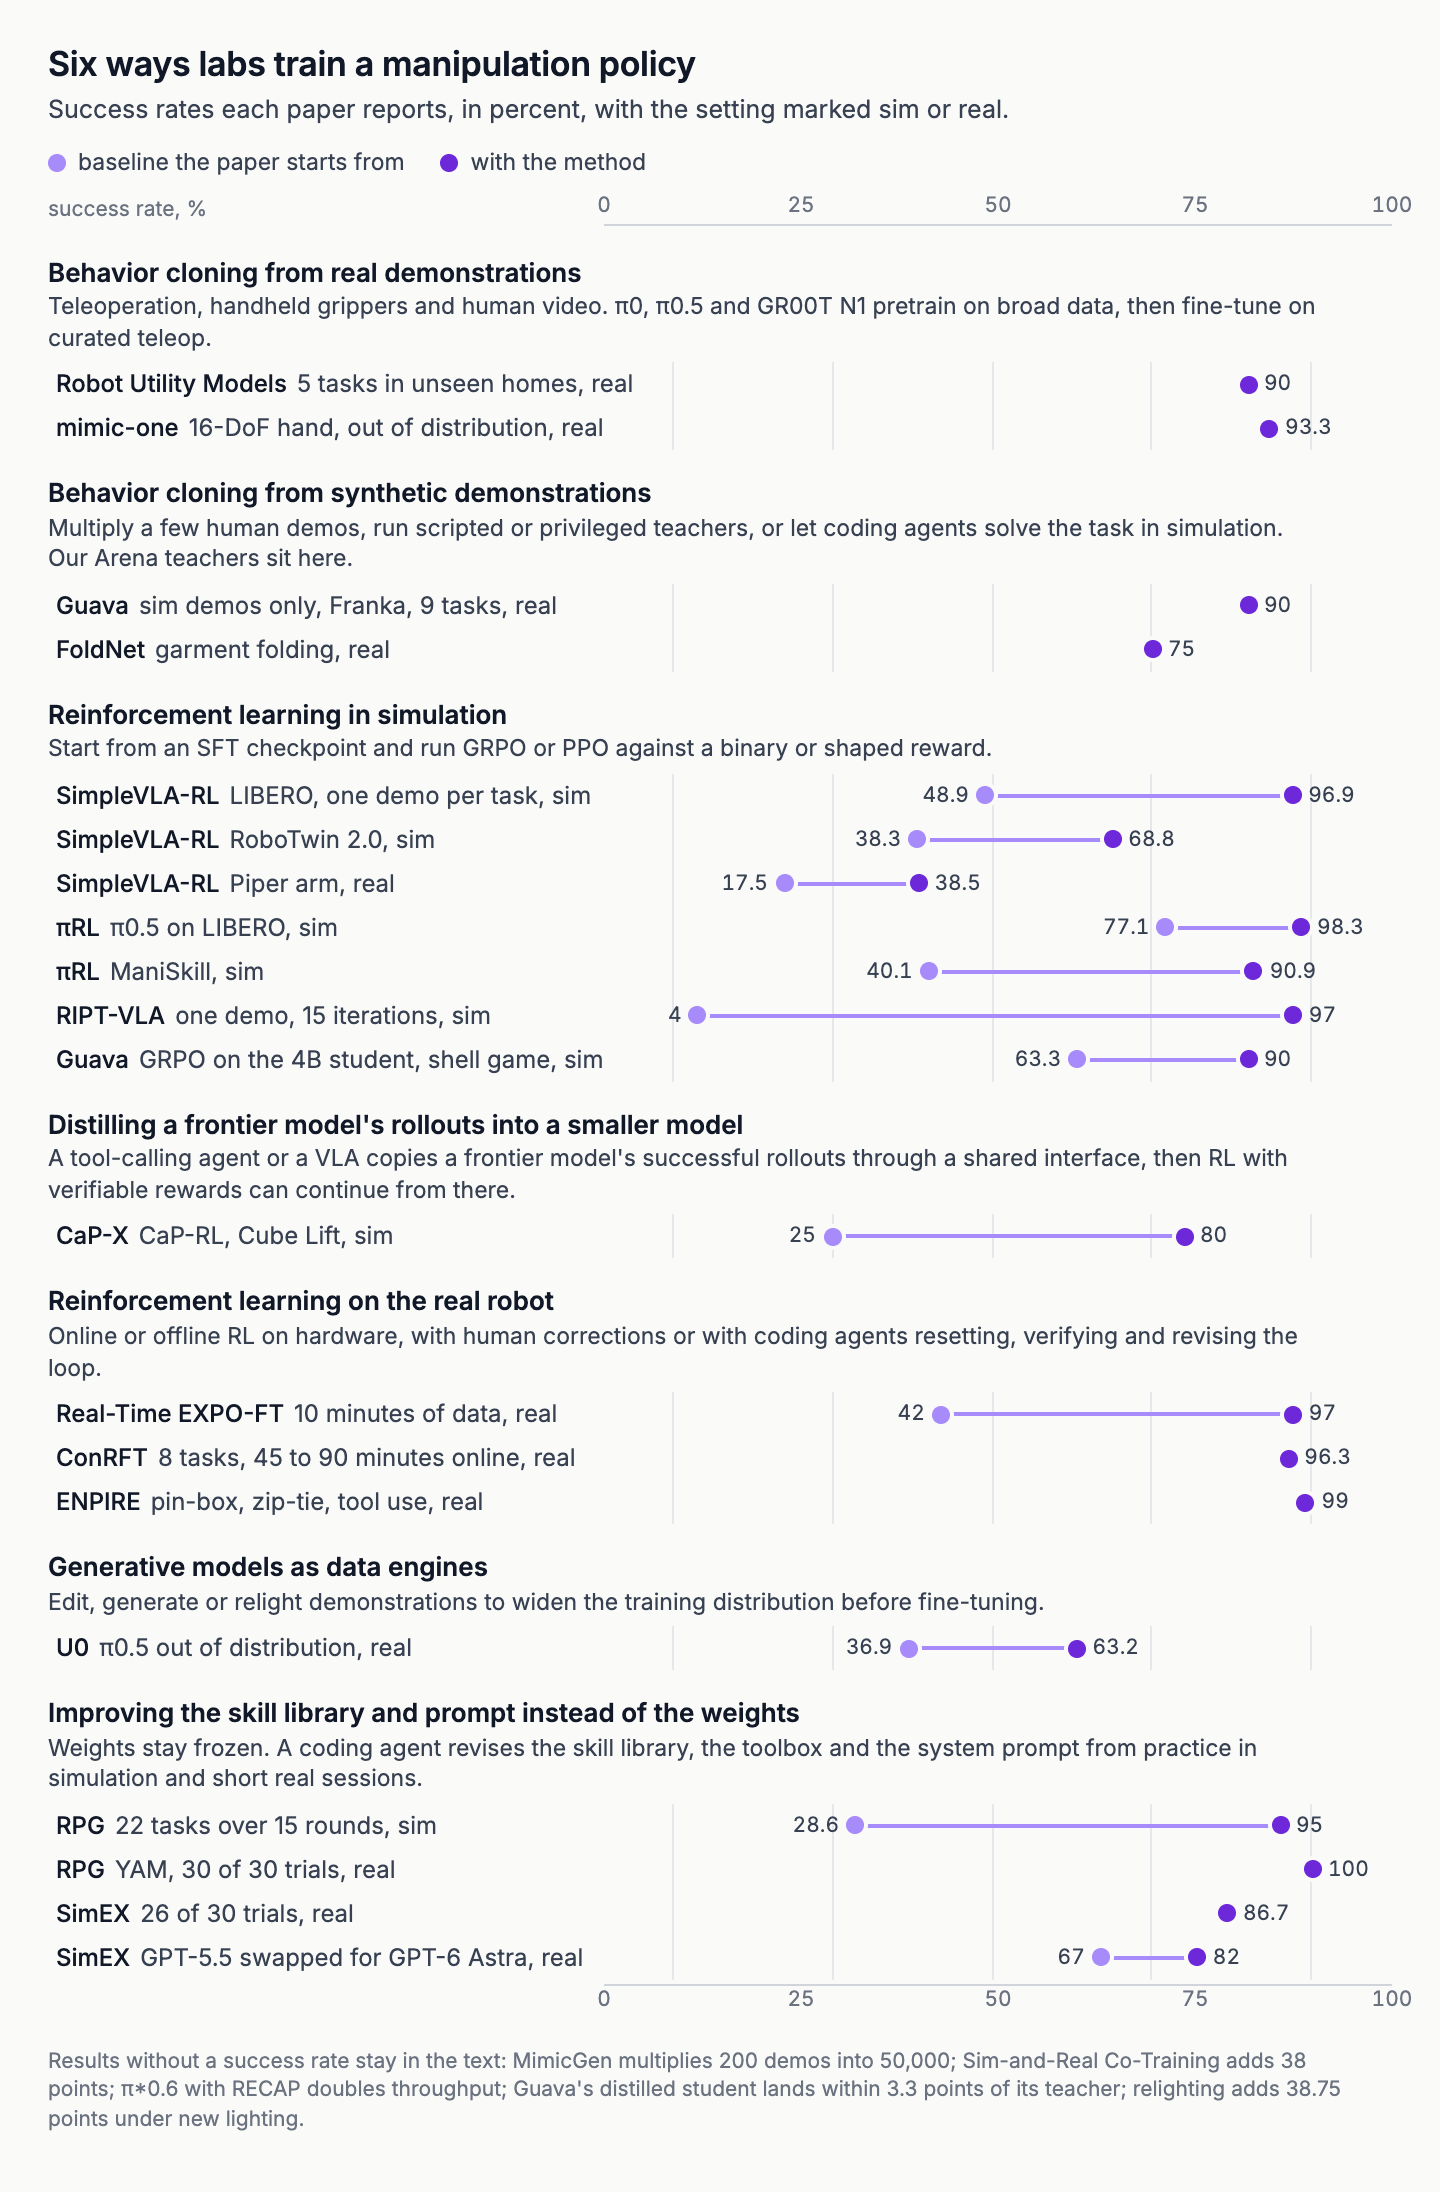
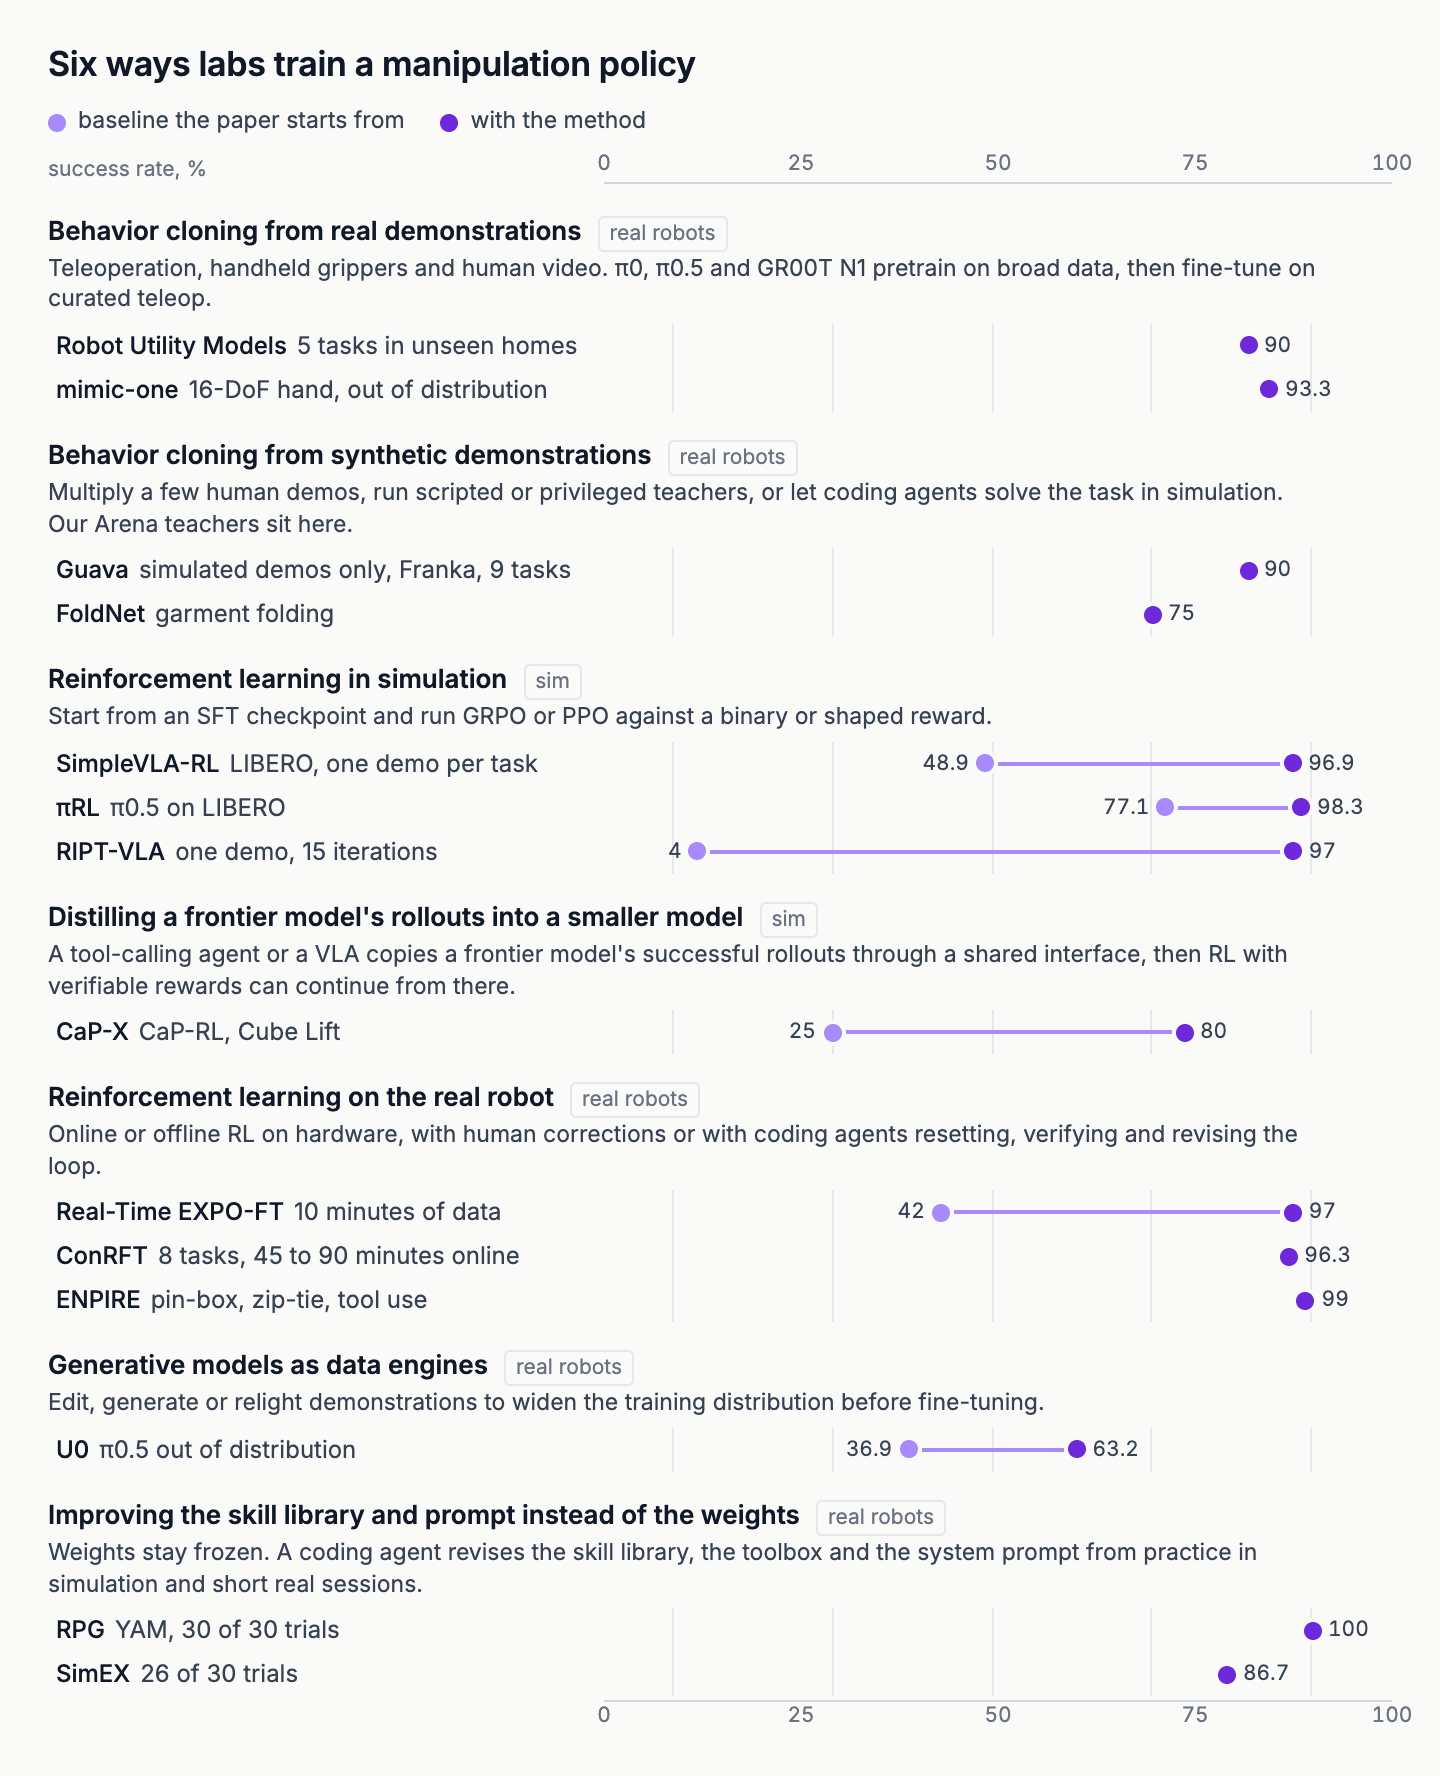
Survey: chart without subtitle or footnote, one result per paper, setting per category; table down to three columns with styled header row and column

diff --git a/scripts/six_ways_chart.html b/scripts/six_ways_chart.html
@@ -12,7 +12,7 @@
 }
 html, body { margin: 0; background: #fff; }
 #figure { width: 720px; box-sizing: border-box; padding: 22px 24px 18px; background: var(--surface); color: var(--ink); font: 12px/1.35 var(--font); }
-h1 { font-size: 17px; font-weight: 600; line-height: 1.25; margin: 0 0 4px; letter-spacing: -0.01em; }
+h1 { font-size: 17px; font-weight: 600; line-height: 1.25; margin: 0 0 10px; letter-spacing: -0.01em; }
 .sub { color: var(--ink-muted); font-size: 12.5px; margin: 0 0 10px; }
 .legend { display: flex; gap: 18px; align-items: center; color: var(--ink-muted); font-size: 11.5px; margin-bottom: 6px; }
 .legend span { display: inline-flex; align-items: center; gap: 6px; }
@@ -27,7 +27,8 @@ h1 { font-size: 17px; font-weight: 600; line-height: 1.25; margin: 0 0 4px; lett
 .axis-name { font-size: 10.5px; color: var(--ink-faint); align-self: end; padding-bottom: 2px; }
 .group { grid-column: 1 / -1; padding: 13px 0 4px; }
 .group:first-of-type { padding-top: 8px; }
-.group b { font-weight: 600; font-size: 13px; display: block; }
+.group b { font-weight: 600; font-size: 13px; display: flex; align-items: baseline; gap: 8px; }
+.group em { font-style: normal; font-weight: 400; font-size: 10.5px; color: var(--ink-faint); border: 1px solid var(--grid); border-radius: 3px; padding: 1px 5px; white-space: nowrap; }
 .group small { display: block; color: var(--ink-muted); font-size: 11.5px; line-height: 1.35; max-width: 640px; margin-top: 1px; }
 .label { padding: 0 0 0 4px; min-width: 0; display: flex; align-items: center; height: 22px; white-space: nowrap; overflow: visible; }
 .label b { font-weight: 500; }
@@ -42,44 +43,41 @@ h1 { font-size: 17px; font-weight: 600; line-height: 1.25; margin: 0 0 4px; lett
 .pt.b { background: var(--before); } .pt.a { background: var(--after); }
 .v { position: absolute; top: 50%; transform: translateY(-50%); font-size: 10.5px; color: var(--ink-muted); font-variant-numeric: tabular-nums; white-space: nowrap; }
 .v.b { text-align: right; } 
-.note { margin-top: 12px; color: var(--ink-faint); font-size: 10.5px; line-height: 1.4; max-width: 660px; }
 </style>
 <div id="figure">
   <h1>Six ways labs train a manipulation policy</h1>
-  <p class="sub">Success rates each paper reports, in percent, with the setting marked sim or real.</p>
   <div class="legend"><span><i class="dot b"></i>baseline the paper starts from</span><span><i class="dot a"></i>with the method</span></div>
   <div class="grid" id="grid"></div>
-  <p class="note">Results without a success rate stay in the text: MimicGen multiplies 200 demos into 50,000; Sim-and-Real Co-Training adds 38 points; π*0.6 with RECAP doubles throughput; Guava's distilled student lands within 3.3 points of its teacher; relighting adds 38.75 points under new lighting.</p>
 </div>
 <script>
 const groups = [
-  { name: "Behavior cloning from real demonstrations",
+  { name: "Behavior cloning from real demonstrations", tag: "real robots",
     how: "Teleoperation, handheld grippers and human video. π0, π0.5 and GR00T N1 pretrain on broad data, then fine-tune on curated teleop.",
-    rows: [["Robot Utility Models", "5 tasks in unseen homes, real", null, 90], ["mimic-one", "16-DoF hand, out of distribution, real", null, 93.3]] },
-  { name: "Behavior cloning from synthetic demonstrations",
+    rows: [["Robot Utility Models", "5 tasks in unseen homes", null, 90], ["mimic-one", "16-DoF hand, out of distribution", null, 93.3]] },
+  { name: "Behavior cloning from synthetic demonstrations", tag: "real robots",
     how: "Multiply a few human demos, run scripted or privileged teachers, or let coding agents solve the task in simulation. Our Arena teachers sit here.",
-    rows: [["Guava", "sim demos only, Franka, 9 tasks, real", null, 90], ["FoldNet", "garment folding, real", null, 75]] },
-  { name: "Reinforcement learning in simulation",
+    rows: [["Guava", "simulated demos only, Franka, 9 tasks", null, 90], ["FoldNet", "garment folding", null, 75]] },
+  { name: "Reinforcement learning in simulation", tag: "sim",
     how: "Start from an SFT checkpoint and run GRPO or PPO against a binary or shaped reward.",
-    rows: [["SimpleVLA-RL", "LIBERO, one demo per task, sim", 48.9, 96.9], ["SimpleVLA-RL", "RoboTwin 2.0, sim", 38.3, 68.8], ["SimpleVLA-RL", "Piper arm, real", 17.5, 38.5], ["πRL", "π0.5 on LIBERO, sim", 77.1, 98.3], ["πRL", "ManiSkill, sim", 40.1, 90.9], ["RIPT-VLA", "one demo, 15 iterations, sim", 4, 97], ["Guava", "GRPO on the 4B student, shell game, sim", 63.3, 90]] },
-  { name: "Distilling a frontier model's rollouts into a smaller model",
+    rows: [["SimpleVLA-RL", "LIBERO, one demo per task", 48.9, 96.9], ["πRL", "π0.5 on LIBERO", 77.1, 98.3], ["RIPT-VLA", "one demo, 15 iterations", 4, 97]] },
+  { name: "Distilling a frontier model's rollouts into a smaller model", tag: "sim",
     how: "A tool-calling agent or a VLA copies a frontier model's successful rollouts through a shared interface, then RL with verifiable rewards can continue from there.",
-    rows: [["CaP-X", "CaP-RL, Cube Lift, sim", 25, 80]] },
-  { name: "Reinforcement learning on the real robot",
+    rows: [["CaP-X", "CaP-RL, Cube Lift", 25, 80]] },
+  { name: "Reinforcement learning on the real robot", tag: "real robots",
     how: "Online or offline RL on hardware, with human corrections or with coding agents resetting, verifying and revising the loop.",
-    rows: [["Real-Time EXPO-FT", "10 minutes of data, real", 42, 97], ["ConRFT", "8 tasks, 45 to 90 minutes online, real", null, 96.3], ["ENPIRE", "pin-box, zip-tie, tool use, real", null, 99]] },
-  { name: "Generative models as data engines",
+    rows: [["Real-Time EXPO-FT", "10 minutes of data", 42, 97], ["ConRFT", "8 tasks, 45 to 90 minutes online", null, 96.3], ["ENPIRE", "pin-box, zip-tie, tool use", null, 99]] },
+  { name: "Generative models as data engines", tag: "real robots",
     how: "Edit, generate or relight demonstrations to widen the training distribution before fine-tuning.",
-    rows: [["U0", "π0.5 out of distribution, real", 36.9, 63.2]] },
-  { name: "Improving the skill library and prompt instead of the weights",
+    rows: [["U0", "π0.5 out of distribution", 36.9, 63.2]] },
+  { name: "Improving the skill library and prompt instead of the weights", tag: "real robots",
     how: "Weights stay frozen. A coding agent revises the skill library, the toolbox and the system prompt from practice in simulation and short real sessions.",
-    rows: [["RPG", "22 tasks over 15 rounds, sim", 28.6, 95], ["RPG", "YAM, 30 of 30 trials, real", null, 100], ["SimEX", "26 of 30 trials, real", null, 86.7], ["SimEX", "GPT-5.5 swapped for GPT-6 Astra, real", 67, 82]] },
+    rows: [["RPG", "YAM, 30 of 30 trials", null, 100], ["SimEX", "26 of 30 trials", null, 86.7]] },
 ];
 const fmt = v => (Number.isInteger(v) ? String(v) : v.toFixed(1));
 const axis = cls => `<div class="axis-name">${cls === 'top' ? 'success rate, %' : ''}</div><div class="axis ${cls}">${[0,25,50,75,100].map(t => `<i style="left:${t}%">${t}</i>`).join('')}</div>`;
 let html = axis('top');
 for (const g of groups) {
-  html += `<div class="group"><b>${g.name}</b><small>${g.how}</small></div>`;
+  html += `<div class="group"><b>${g.name}<em>${g.tag}</em></b><small>${g.how}</small></div>`;
   for (const [name, setting, b, a] of g.rows) {
     let marks = '';
     if (b !== null) marks += `<div class="bar" style="left:${b}%;width:${a - b}%"></div><div class="pt b" style="left:${b}%"></div><div class="v b" style="right:calc(${100 - b}% + 8px)">${fmt(b)}</div>`;

diff --git a/assets/css/style.css b/assets/css/style.css
@@ -353,6 +353,32 @@ main > section > p,
   margin-bottom: 1.4em;
 }
 
+/* --- Tables --- */
+.post-content table {
+  width: 100%;
+  border-collapse: collapse;
+  margin: 8px 0 28px;
+  font-size: 14px;
+  line-height: 1.45;
+}
+.post-content th,
+.post-content td {
+  padding: 9px 12px;
+  border: 1px solid var(--border);
+  text-align: left;
+  vertical-align: top;
+}
+.post-content thead th {
+  background: var(--purple-light);
+  color: var(--purple-dark);
+  font-weight: 600;
+}
+.post-content tbody td:first-child {
+  font-weight: 600;
+  color: var(--ink);
+  background: var(--border-subtle);
+}
+
 /* --- Footer --- */
 .site-footer {
   margin-top: 72px;

diff --git a/_posts/2026-10-07-six-ways-labs-train-manipulation-policies.md b/_posts/2026-10-07-six-ways-labs-train-manipulation-policies.md
@@ -16,14 +16,14 @@ I went to IROS 2026 with Moonlake. Our demo ran code-as-policy on semi-repeatabl
 
 Robotics labs have converged on six ways to train a manipulation policy. I list them with the evidence I could check against each paper.
 
-| Method | What gets updated | Where it learns | What you need | Evidence |
-| --- | --- | --- | --- | --- |
-| Behavior cloning | Policy weights | Offline, on demonstrations | Teleop, handheld-gripper or human-video demos, or demos multiplied and generated in simulation | Robot Utility Models: 90% in unseen homes. Guava: 90% on a real Franka from simulated demos alone |
-| Reinforcement learning in simulation | Policy weights, from an SFT start | A simulator | Resets to the same scene, a reward, and simulator throughput | SimpleVLA-RL: LIBERO 48.9% to 96.9%. πRL: ManiSkill 40.1% to 90.9% |
-| Distilling a frontier model's rollouts | A smaller model's weights | On the teacher's successful rollouts, mostly in simulation | A frontier model, a shared action interface, a success filter | Guava's 4B student lands within 3.3 points of GPT-5.4 at 7.1x lower latency |
-| Reinforcement learning on the real robot | Policy weights | On hardware | Robot time, plus human corrections or agent-written resets and verification | Real-Time EXPO-FT: 42% to 97% from 10 minutes of data. ConRFT: 96.3% over eight tasks |
-| Generative models as data engines | The training data, then weights by cloning | Offline | A generation or editing model and seed demonstrations | U0: π0.5 out of distribution 36.9% to 63.2%. Relighting: +38.75 points under new lighting |
-| Improving the skill library and prompt | Code and prompts; weights stay frozen | Practice in simulation, then short real sessions | A coding agent, a simulator, an editable toolbox | RPG: 28.6% to 95.0% in simulation, then 30 of 30 real trials. SimEX: 67% to 82% on a model swap |
+| Method | Where it learns | What you need |
+| --- | --- | --- |
+| Behavior cloning | Offline, on demonstrations | Teleop, handheld-gripper or human-video demos, or demos multiplied and generated in simulation |
+| Reinforcement learning in simulation | A simulator | Resets to the same scene, a reward, and simulator throughput |
+| Distilling a frontier model's rollouts | On the teacher's successful rollouts, mostly in simulation | A frontier model, a shared action interface, a success filter |
+| Reinforcement learning on the real robot | On hardware | Robot time, plus human corrections or agent-written resets and verification |
+| Generative models as data engines | Offline | A generation or editing model and seed demonstrations |
+| Improving the skill library and prompt | Practice in simulation, then short real sessions | A coding agent, a simulator, an editable toolbox |
 
 ![Dumbbell chart of success rates reported by the papers in this section, grouped by the six training methods. Light dots mark the baseline each paper starts from and dark dots the result with the method; each row is labeled sim or real.]({{ site.baseurl }}/assets/posts/six-ways-labs-train-manipulation-policies/training-methods-success-rates.png)
 
